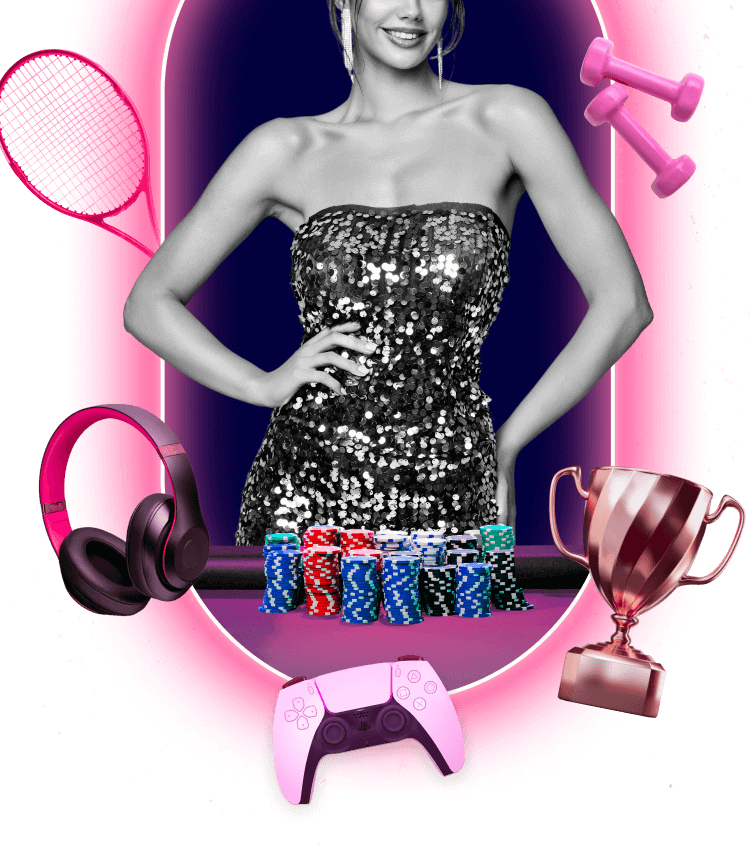
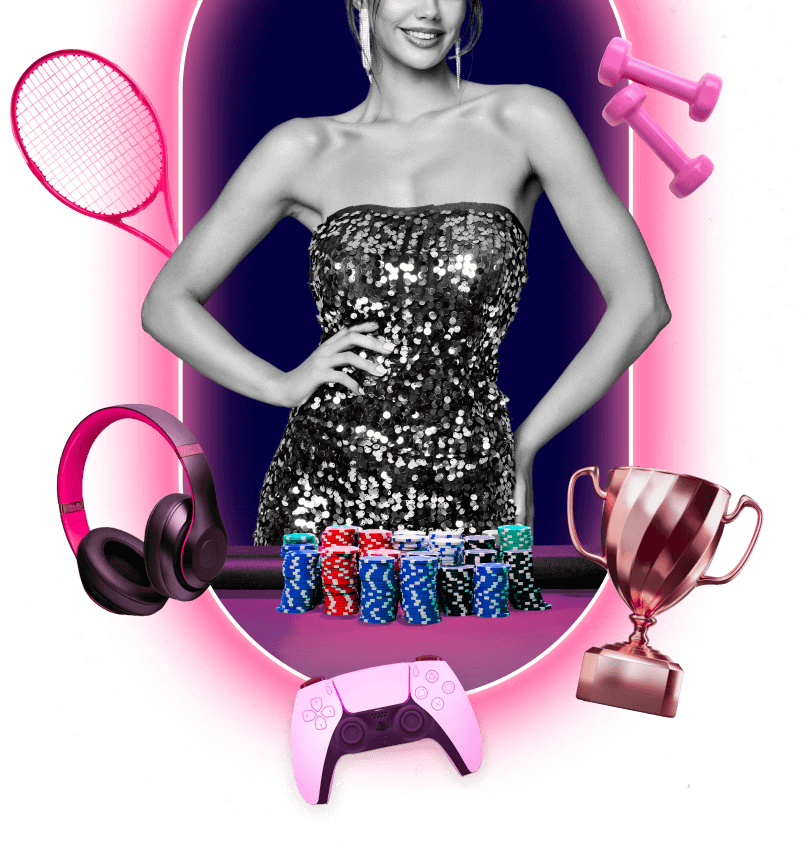
fix mob welcom image

diff --git a/build/css/main.css b/build/css/main.css
@@ -1,1 +1,1 @@
-@font-face{font-family:SuisseIntl-Medium;src:url(../fonts/SuisseIntl/SuisseIntl-Medium.woff);font-weight:500}@font-face{font-family:SuisseIntl-SemiBold;src:url(../fonts/SuisseIntl/SuisseIntl-SemiBold.woff);font-weight:600}@font-face{font-family:SuisseIntl-Bold;src:url(../fonts/SuisseIntl/SuisseIntl-Bold.woff);font-weight:700}@font-face{font-family:WulkanDisplay;src:url(../fonts/WulkanDisplay/WulkanDisplay-SemiBoldItalic.woff)}html{height:100%}body{margin:0;height:100%}a{text-decoration:none}ul{list-style:none}h1,h2,h3,li,p,ul{padding:0;margin:0}*{-webkit-box-sizing:border-box;box-sizing:border-box}.overflow{overflow-x:hidden!important}body{background:#00003d}body img{max-width:100%;height:auto}.fav__page{background:#00003d;-webkit-tap-highlight-color:transparent}.fav__page.overflow{overflow:hidden}.welcome{overflow:hidden;background:#00003d url(../img/bg-welcom-desc.jpg) no-repeat center/100% 100%}@media screen and (max-width:1024px){.welcome{background:#00003d url(../img/bg-welcom-tab.jpg) no-repeat center/100% 100%}}@media screen and (max-width:550px){.welcome{background:#00003d url(../img/bg-welcom-mob.jpg) no-repeat center/100% 100%}}.welcome__cloud{display:block;pointer-events:none;content:"";overflow-x:hidden;position:absolute;width:1000%;left:-900%;background:url(../img/cloud-top.png) repeat-x top/contain;top:0;height:60px;-webkit-animation:500s infinite ease animCloud;animation:500s infinite ease animCloud}@media screen and (max-width:700px){.welcome__cloud{-webkit-animation:none;animation:none}}.welcome__container{max-width:1305px;margin:0 auto;padding:0}.welcome__row{display:-webkit-box;display:-ms-flexbox;display:flex;-webkit-box-align:start;-ms-flex-align:start;align-items:flex-start;-webkit-box-pack:justify;-ms-flex-pack:justify;justify-content:space-between}.welcome__info{padding:45px 0 0 0;margin:0 20px 0 0;position:relative;left:40px}.welcome__title{font-family:SuisseIntl-SemiBold,sans-serif;max-width:390px;text-transform:uppercase;margin:0 0 30px 0;color:#ededed;font-size:84px;line-height:94px}.welcome__title span{font-family:WulkanDisplay,sans-serif;color:#ff267e}.welcome__subtitle{min-width:396px;font-family:SuisseIntl-SemiBold,sans-serif;color:#ff267e;font-size:40px;line-height:45px;margin:0 0 10px 0;letter-spacing:.02em;text-transform:uppercase}.welcome__text{font-family:SuisseIntl-Medium,sans-serif;color:#e8e8e8;max-width:415px;font-size:14px;line-height:28px;letter-spacing:.01em;margin:0 0 30px 0}.welcome__link{display:inline-block;font-family:SuisseIntl-Medium,sans-serif;color:#00003d;font-size:20px;line-height:24px;padding:19px 95px 17px;border-radius:4px;text-transform:uppercase;background:#05c489;-webkit-transition:background-color .3s ease;-o-transition:background-color .3s ease;transition:background-color .3s ease}.welcome__link:hover{background:#05b37c}.welcome__image{max-width:880px;position:relative;right:-140px}.prize{padding:10px 0 60px;background:#00003d;position:relative;z-index:3;margin-top:-40px}.prize__container{max-width:1305px;margin:0 auto;padding:0}.prize__title{position:relative;left:40px;font-family:WulkanDisplay,sans-serif;color:#ff267e;font-size:60px;line-height:77px;letter-spacing:.02em;text-transform:uppercase;margin:0 0 10px 0}.prize__list{max-width:1160px;padding:0 15px;display:-webkit-box;display:-ms-flexbox;display:flex;position:relative;-webkit-box-pack:justify;-ms-flex-pack:justify;justify-content:space-between;margin:0 auto 55px auto}.prize__item{position:relative}.prize__item::before{content:"";position:absolute;top:0;left:50%;-webkit-transform:translateX(-50%);-ms-transform:translateX(-50%);transform:translateX(-50%);width:520px;height:220px;z-index:0;background:url(../img/prize-back.png) no-repeat 0 0/contain}.prize__item:nth-child(1) .prize__item-wrap::after{content:"";position:absolute;z-index:4;width:129px;height:93px;background:url(../img/prize1.png) no-repeat 0 0/contain;top:60px;right:-10px}.prize__item:nth-child(2) .prize__item-wrap::after{content:"";position:absolute;z-index:4;width:170px;height:125px;background:url(../img/prize2.png) no-repeat 0 0/contain;bottom:-40px;right:-20px}.prize__item:nth-child(3) .prize__item-wrap::after{content:"";position:absolute;z-index:4;width:153px;height:135px;background:url(../img/prize3.png) no-repeat 0 0/contain;top:30px;right:-10px}.prize__item-wrap{position:relative;z-index:3;display:-webkit-box;display:-ms-flexbox;display:flex;-webkit-box-align:center;-ms-flex-align:center;align-items:center;-webkit-box-pack:center;-ms-flex-pack:center;justify-content:center;min-width:268px;margin:0 0 20px 0;height:220px;background:url(../img/prize-bg.png) no-repeat 0 0/contain}.prize__item-number{margin-top:80px;margin-left:-30px;font-family:WulkanDisplay,sans-serif;font-style:normal;font-size:80px;line-height:93px;color:#ededed}.prize__item-text{font-family:SuisseIntl-SemiBold,sans-serif;font-size:20px;line-height:26px;color:#e8e8e8;letter-spacing:.04em;text-transform:uppercase;max-width:300px;text-align:center;margin:0 auto}.prize__drop{max-width:900px;width:calc(100% - 80px);margin:0 auto 0;border:none;cursor:pointer;outline:0!important;background:#33084a;position:relative;border-radius:4px;text-align:left}.prize__drop:after,.prize__drop:before{content:"";background:#ff267e;width:4px;height:18px;display:block;position:absolute;top:32px}.prize__drop[open]:before{-webkit-transform:rotate(-45deg);-ms-transform:rotate(-45deg);transform:rotate(-45deg)}.prize__drop[open]:after{-webkit-transform:rotate(45deg);-ms-transform:rotate(45deg);transform:rotate(45deg)}.prize__drop:before{right:33px;-webkit-transform:rotate(45deg);-ms-transform:rotate(45deg);transform:rotate(45deg)}.prize__drop:after{-webkit-transform:rotate(-45deg);-ms-transform:rotate(-45deg);transform:rotate(-45deg);right:43px}.prize__drop-title{font-family:SuisseIntl-Medium,sans-serif;font-size:24px;line-height:24px;color:#ededed;text-transform:uppercase;letter-spacing:.02em;padding:27px 26px 25px;position:relative}.prize__drop summary::-webkit-details-marker{display:none}.prize__drop>summary{list-style:none}.prize__drop-txt{font-family:SuisseIntl-Medium,sans-serif;font-size:14px;line-height:28px;color:#ededed;letter-spacing:.02em;padding:30px;background:#33084a;border-top:1px solid #ff267e}.prize__drop-txt span{display:block;padding-left:15px}.prize__drop-txt .retreat1{padding-left:30px}.tableResults__drop{max-width:900px;width:calc(100% - 80px);margin:0 auto 0;background:#33084a;cursor:pointer;outline:0!important;position:relative;border-radius:4px;text-align:left}.tableResults__drop:after,.tableResults__drop:before{content:"";background:#ff267e;width:4px;height:18px;display:block;position:absolute;top:32px}.tableResults__drop[open]:before{-webkit-transform:rotate(-45deg);-ms-transform:rotate(-45deg);transform:rotate(-45deg)}.tableResults__drop[open]:after{-webkit-transform:rotate(45deg);-ms-transform:rotate(45deg);transform:rotate(45deg)}.tableResults__drop:before{right:33px;-webkit-transform:rotate(45deg);-ms-transform:rotate(45deg);transform:rotate(45deg)}.tableResults__drop:after{-webkit-transform:rotate(-45deg);-ms-transform:rotate(-45deg);transform:rotate(-45deg);right:43px}.tableResults__drop-title{font-family:SuisseIntl-Medium,sans-serif;font-size:24px;line-height:24px;color:#ededed;text-transform:uppercase;letter-spacing:.02em;padding:27px 26px 25px;position:relative}.tableResults__drop summary::-webkit-details-marker{display:none}.tableResults__drop>summary{list-style:none}.tableResults__drop-txt{font-family:SuisseIntl-Medium,sans-serif;font-size:14px;line-height:28px;color:#ededed;letter-spacing:.02em;padding:30px;background:#33084a;border-top:1px solid #ff267e}.tableResults__drop-txt p{font-family:SuisseIntl-Medium,sans-serif;font-size:14px;line-height:28px}.tableResults__drop-txt span{display:block;padding-left:15px}.tableResults__drop-txt .retreat1{padding-left:30px}.tableResults{background:#00003d;text-align:center;position:relative;z-index:3}.tableResults::before{pointer-events:none;content:"";position:absolute;width:100vw;min-height:180%;left:0;z-index:0;top:-42%;background:url(../img/bg-table-desc.svg) no-repeat center/cover}@media screen and (max-width:1024px){.tableResults::before{background:url(../img/bg-table-table.svg) no-repeat center/cover;top:-4%;min-height:40%}}.tableResults__container{max-width:1305px;margin:0 auto;padding:0}.tableResults__title{position:relative;z-index:3;font-family:SuisseIntl-Bold,sans-serif;font-size:50px;line-height:50px;color:#ededed;text-transform:uppercase;text-align:center;letter-spacing:.01em;margin:0 0 30px 0}.tableResults__wrap{margin:0 auto 40px auto;max-width:1004px;padding:0 15px;text-align:left;position:relative}.tableResults__head{background:#00003d;border:2px solid #ff267e;-webkit-box-shadow:0 0 30px #ff267e,inset 0 0 30px #ff267e;box-shadow:0 0 30px #ff267e,inset 0 0 30px #ff267e;border-radius:4px;margin-right:10px;margin-bottom:25px;position:relative}.tableResults__head-list{display:-webkit-box;display:-ms-flexbox;display:flex}.tableResults__head-col{font-family:SuisseIntl-SemiBold,sans-serif;font-size:20px;line-height:20px;color:#ededed;text-transform:uppercase;letter-spacing:.04em;padding:20px 20px 17px 35px}.tableResults__head-col:nth-child(1){width:19%;padding:20px 20px 17px 24px}.tableResults__head-col:nth-child(2){width:25%;padding:20px 20px 17px 24px}.tableResults__head-col:nth-child(3){width:21%}.tableResults__head-col:nth-child(4){width:47%}.tableResults__body{overflow-y:scroll;padding-right:6px;position:relative;max-height:495px;font-size:18px;background:0 0}.tableResults__body::-webkit-scrollbar{width:4px;height:80%;background:rgba(51,8,60,.5)}.tableResults__body::-webkit-scrollbar-thumb{background-color:#ff267e;width:4px}.tableResults__body-col{font-family:SuisseIntl-SemiBold,sans-serif;width:25%;margin-right:8px;letter-spacing:.04em;display:-webkit-box;display:-ms-flexbox;display:flex;-webkit-box-align:center;-ms-flex-align:center;align-items:center;padding:22px 20px 18px 24px;background:#33084a;color:#ededed;text-align:start}.tableResults__body-col span{font-family:SuisseIntl-SemiBold,sans-serif}.tableResults__body-col:nth-child(1){width:19%;padding:22px 20px 18px 24px}.tableResults__body-col:nth-child(2){width:25%}.tableResults__body-col:nth-child(3){width:20%}.tableResults__body-col:nth-child(4){width:46%;margin-right:0}.tableResults__row{word-break:break-all;display:-webkit-box;display:-ms-flexbox;display:flex;margin-bottom:8px}.tableResults__row:last-child{margin-bottom:0}.tableResults .place1 .tableResults__body-col:nth-child(1):after,.tableResults .place2 .tableResults__body-col:nth-child(1):after,.tableResults .place3 .tableResults__body-col:nth-child(1):after{content:"";width:31px;height:24px;display:inline-block;margin:-4px 0 0 14px}.tableResults .place1 .tableResults__body-col:nth-child(1):after{background:url(../img/place-icon-1.svg) no-repeat 0 0/contain}.tableResults .place2 .tableResults__body-col:nth-child(1):after{background:url(../img/place-icon-2.svg) no-repeat 0 0/contain}.tableResults .place3 .tableResults__body-col:nth-child(1):after{background:url(../img/place-icon-3.svg) no-repeat 0 0/contain}.tableResults__drop{display:inline-block;vertical-align:middle}.footer{padding:123px 0 90px;background:url(../img/bg-footer.jpg) no-repeat 50% 0/cover;position:relative}.footer::after{content:"";position:absolute;z-index:0;width:530px;height:450px;left:-15px;bottom:0;background:url(../img/left-footer.png) no-repeat center/contain}.footer::before{content:"";position:absolute;z-index:0;width:530px;height:450px;right:-15px;bottom:0;background:url(../img/right-footer.png) no-repeat center/contain}.footer__cloud{position:absolute;width:1000%;height:90px;bottom:0;left:-900%;background:url(../img/cloud-desc.png) repeat-x bottom/contain;-webkit-animation:500s infinite ease animCloud;animation:500s infinite ease animCloud}@media screen and (max-width:1024px){.footer__cloud{background:url(../img/cloud-tab.png) repeat-x bottom/contain}}@media screen and (max-width:550px){.footer__cloud{background:0 0;display:none}}.footer__container{max-width:660px;padding:0 15px;margin:0 auto}.footer__row{position:relative;z-index:3;display:-webkit-box;display:-ms-flexbox;display:flex;-webkit-box-orient:vertical;-webkit-box-direction:normal;-ms-flex-direction:column;flex-direction:column;-webkit-box-align:center;-ms-flex-align:center;align-items:center}.footer__title{font-family:SuisseIntl-SemiBold,sans-serif;text-align:center;color:#ededed;font-size:60px;line-height:77px;text-transform:uppercase;margin:0 0 15px 0}.footer__title span{font-family:WulkanDisplay,sans-serif;color:#ff267e}.footer__text{font-family:SuisseIntl-Medium,sans-serif;text-align:center;font-size:14px;line-height:28px;color:#e8e8e8;margin:0 0 30px 0}.footer__link{display:inline-block;font-family:SuisseIntl-Medium,sans-serif;color:#00003d;font-size:20px;line-height:24px;padding:19px 95px 17px;border-radius:4px;text-transform:uppercase;background:#05c489;-webkit-transition:background-color .3s ease;-o-transition:background-color .3s ease;transition:background-color .3s ease}.footer__link:hover{background:#05b37c}@-webkit-keyframes animCloud{0%{background-position:0 0}100%{background-position:100% 0}}@keyframes animCloud{0%{background-position:0 0}100%{background-position:100% 0}}@media screen and (max-width:1260px){.welcome__image{right:-40px;min-width:76%}}@media screen and (max-width:1024px){.welcome__title{font-size:60px;line-height:70px;margin:0 0 25px 0;-webkit-box-ordinal-group:2;-ms-flex-order:1;order:1}.welcome__link{-webkit-box-ordinal-group:3;-ms-flex-order:2;order:2;margin:0 0 30px 0;-ms-flex-item-align:start;align-self:flex-start}.welcome__subtitle{min-width:300px;-webkit-box-ordinal-group:4;-ms-flex-order:3;order:3;font-size:30px;line-height:30px;margin:0 0 8px 0}.welcome__text{-webkit-box-ordinal-group:5;-ms-flex-order:4;order:4;margin:0}.welcome__image{min-width:62%;right:20px}.welcome__info{min-width:357px;display:-webkit-box;display:-ms-flexbox;display:flex;-webkit-box-orient:vertical;-webkit-box-direction:normal;-ms-flex-direction:column;flex-direction:column}}@media screen and (max-width:890px){.welcome__image{min-width:62%;right:50px}}@media screen and (max-width:790px){.welcome__info{left:20px}.welcome__image{min-width:62%;right:90px}}@media screen and (max-width:750px){.welcome__info{min-width:267px}.welcome__image{right:0}}@media screen and (max-width:700px){.welcome__row{-webkit-box-orient:vertical;-webkit-box-direction:reverse;-ms-flex-direction:column-reverse;flex-direction:column-reverse}.welcome__image{min-width:auto;right:23px}.welcome__info{margin-top:-80px;z-index:3;left:0;min-width:auto;width:100%;max-width:100%}.welcome__title{padding:0 15px;max-width:515px;text-align:center;margin:0 auto 30px auto}.welcome__subtitle{text-align:center;font-size:32px;padding:0 15px;line-height:40px;margin:0 auto 10px auto}.welcome__link{font-size:20px;line-height:24px;margin:0 auto 25px auto;width:70%;padding:19px 15px 17px;text-align:center}.welcome__text{padding:0 15px;max-width:515px;text-align:center;margin:0 auto 0 auto}}@media screen and (max-width:550px){.welcome::before{content:"";position:absolute;width:100%;height:1100px;background:url(../img/blur-mob.png) no-repeat center/100% 100%;z-index:10}.welcome__image{right:0;position:relative;z-index:12}.welcome__info{margin-top:-74px;position:relative;z-index:12}.welcome__title{max-width:430px;font-size:42px;line-height:50px;margin:0 auto 7px auto}}@media screen and (max-width:430px){.welcome__link{width:calc(100% - 30px)}}@media screen and (max-width:1180px){.prize{margin-top:0}.prize__list{left:0;display:grid;grid-template-columns:auto auto;justify-items:center;-webkit-box-pack:center;-ms-flex-pack:center;justify-content:center;-webkit-box-align:center;-ms-flex-align:center;align-items:center;-webkit-column-gap:120px;-moz-column-gap:120px;column-gap:120px;row-gap:60px}.prize__item{display:-webkit-box;display:-ms-flexbox;display:flex;-webkit-box-orient:vertical;-webkit-box-direction:normal;-ms-flex-direction:column;flex-direction:column;-webkit-box-pack:center;-ms-flex-pack:center;justify-content:center;-webkit-box-align:center;-ms-flex-align:center;align-items:center}.prize__item-number{margin-left:0}.prize__item:nth-child(1){grid-column:1/2;grid-row:1/2}.prize__item:nth-child(1) .prize__item-wrap::after{right:-40px}.prize__item:nth-child(2){grid-column:2/3;grid-row:1/2}.prize__item:nth-child(2) .prize__item-wrap::after{right:-50px}.prize__item:nth-child(3){grid-column:1/3;grid-row:2/3}.prize__item:nth-child(3) .prize__item-wrap::after{right:-40px}}@media screen and (max-width:1024px){.prize__title{font-size:40px;line-height:60px;margin:0 0 5px 0}}@media screen and (max-width:830px){.prize{padding:40px 0 60px}}@media screen and (max-width:790px){.prize__title{left:20px}}@media screen and (max-width:700px){.prize{padding:35px 0 60px}.prize__drop{width:calc(100% - 30px)}.prize__drop:after,.prize__drop:before{width:2px;height:12px;top:23px}.prize__drop:before{right:18px}.prize__drop:after{right:26px}.prize__drop-title{font-size:18px;line-height:18px;padding:20px 20px 18px}.prize__drop-title:after{right:45px}.prize__drop-txt{padding:20px}.prize__title{left:0;padding:0 15px;text-align:center;margin:0}.prize__list{-webkit-column-gap:0;-moz-column-gap:0;column-gap:0;row-gap:10px;grid-template-columns:100%}.prize__item:nth-child(1){grid-column:1/2;grid-row:1/2}.prize__item:nth-child(2){grid-column:1/2;grid-row:2/3}.prize__item:nth-child(3){grid-column:1/2;grid-row:3/4}}@media screen and (max-width:940px){.tableResults__title{font-size:36px;line-height:36px}.tableResults__head{-webkit-box-shadow:0 0 20px #ff267e,inset 0 0 20px #ff267e;box-shadow:0 0 20px #ff267e,inset 0 0 20px #ff267e;margin-bottom:10px}.tableResults__head-col{font-size:16px;line-height:16px;padding:14px 20px 12px 35px}.tableResults__head-col:nth-child(1){padding:14px 20px 12px 18px}.tableResults__head-col:nth-child(2){padding:14px 20px 12px 26px}.tableResults__body{font-size:16px;max-height:444px}.tableResults .place1 .tableResults__body-col:nth-child(1):after,.tableResults .place2 .tableResults__body-col:nth-child(1):after,.tableResults .place3 .tableResults__body-col:nth-child(1):after{width:26px;height:20px;margin:-3px 0 0 10px}}@media screen and (max-width:700px){.tableResults__drop{width:calc(100% - 30px)}.tableResults__drop:after,.tableResults__drop:before{width:2px;height:12px;top:23px}.tableResults__drop:before{right:18px}.tableResults__drop:after{right:26px}.tableResults__drop-title{font-size:18px;line-height:18px;padding:20px 20px 18px}.tableResults__drop-title:after{right:45px}.tableResults__drop-txt{padding:20px}.tableResults__head{margin-right:0;margin-bottom:5px;-webkit-box-shadow:0 0 10px #ff267e,inset 0 0 10px #ff267e;box-shadow:0 0 10px #ff267e,inset 0 0 10px #ff267e}.tableResults__head-col{font-size:12px;line-height:12px}.tableResults__head-col:nth-child(1){padding:11px 20px 9px 15px;width:20%}.tableResults__head-col:nth-child(2){padding:11px 20px 9px 10px;width:28%}.tableResults__head-col:nth-child(3){padding:11px 20px 9px 7px;width:22%}.tableResults__head-col:nth-child(4){padding:11px 20px 9px 10px;width:30%}.tableResults__body{font-size:11px;padding-right:0}.tableResults__body::-webkit-scrollbar{background:#33083c}.tableResults__body-col{font-family:SuisseIntl-Bold,sans-serif;margin-right:2px;padding:12px 5px 8px 10px}.tableResults__body-col:nth-child(1){width:20%;padding:12px 5px 8px 20px}.tableResults__body-col:nth-child(2){width:28%;padding:12px 5px 8px 10px}.tableResults__body-col:nth-child(3){width:22%}.tableResults__body-col:nth-child(4){width:30%}.tableResults__row{margin-bottom:2px}.tableResults .place1 .tableResults__body-col:nth-child(1):after,.tableResults .place2 .tableResults__body-col:nth-child(1):after,.tableResults .place3 .tableResults__body-col:nth-child(1):after{width:18px;height:14px;margin:-4px 0 0 6px}}@media screen and (max-width:374px){.tableResults__drop:after,.tableResults__drop:before{top:21px}.tableResults__drop-title{font-size:16px;line-height:16px;padding:18px 15px 16px}.tableResults__title{font-size:30px;line-height:30px}.tableResults__wrap{margin-top:20px}}@media screen and (max-width:1230px){.footer{padding:410px 0 70px;background:url(../img/bg-footer-tab.jpg) no-repeat center/100% 100%}.footer::after,.footer::before{content:none;background:0 0}.footer::before{content:"";left:50%;right:auto;bottom:auto;width:715px;height:372px;top:20px;z-index:1;-webkit-transform:translateX(-50%);-ms-transform:translateX(-50%);transform:translateX(-50%);background:url(../img/footer-center.png) no-repeat center/contain}.footer::after{content:"";left:50%;right:auto;bottom:auto;width:100%;height:100%;top:-170px;z-index:0;-webkit-transform:translateX(-50%);-ms-transform:translateX(-50%);transform:translateX(-50%);background:url(../img/touch-footer.svg) no-repeat center/contain}}@media screen and (max-width:1024px){.footer__title{font-size:50px;line-height:60px;margin:0 0 10px 0}}@media screen and (max-width:720px){.footer{padding:360px 0 70px}.footer::before{width:100%;top:-10px}}@media screen and (max-width:550px){.footer{padding:307px 0 30px;background:url(../img/bg-footer-mob.jpg) no-repeat center/100% 100%}.footer::before{width:100%;top:-30px}.footer::after{content:"";left:50%;right:auto;bottom:auto;width:100%;height:320px;top:10px;z-index:0;-webkit-transform:translateX(-50%);-ms-transform:translateX(-50%);transform:translateX(-50%);background:url(../img/touch-mob.png) no-repeat center/contain}.footer__title{font-size:42px;line-height:50px;-webkit-box-ordinal-group:2;-ms-flex-order:1;order:1}.footer__link{-webkit-box-ordinal-group:3;-ms-flex-order:2;order:2;width:100%;padding:19px 15px 17px;text-align:center;margin:0 0 25px 0}.footer__text{-webkit-box-ordinal-group:4;-ms-flex-order:3;order:3;margin:0}}@media screen and (max-width:466px){.footer{padding:253px 0 30px}.footer::before{top:-60px}.footer::after{top:-20px}}@media screen and (max-width:406px){.footer{padding:215px 0 30px}.footer::before{top:-80px}.footer::after{top:-40px}}@media screen and (max-width:365px){.footer{padding:193px 0 30px}.footer::before{top:-90px}.footer::after{top:-50px}}
+@font-face{font-family:SuisseIntl-Medium;src:url(../fonts/SuisseIntl/SuisseIntl-Medium.woff);font-weight:500}@font-face{font-family:SuisseIntl-SemiBold;src:url(../fonts/SuisseIntl/SuisseIntl-SemiBold.woff);font-weight:600}@font-face{font-family:SuisseIntl-Bold;src:url(../fonts/SuisseIntl/SuisseIntl-Bold.woff);font-weight:700}@font-face{font-family:WulkanDisplay;src:url(../fonts/WulkanDisplay/WulkanDisplay-SemiBoldItalic.woff)}html{height:100%}body{margin:0;height:100%}a{text-decoration:none}ul{list-style:none}h1,h2,h3,li,p,ul{padding:0;margin:0}*{-webkit-box-sizing:border-box;box-sizing:border-box}.overflow{overflow-x:hidden!important}body{background:#00003d}body img{max-width:100%;height:auto}.fav__page{background:#00003d;-webkit-tap-highlight-color:transparent}.fav__page.overflow{overflow:hidden}.welcome{overflow:hidden;background:#00003d url(../img/bg-welcom-desc.jpg) no-repeat center/100% 100%}@media screen and (max-width:1024px){.welcome{background:#00003d url(../img/bg-welcom-tab.jpg) no-repeat center/100% 100%}}@media screen and (max-width:550px){.welcome{background:#00003d url(../img/bg-welcom-mob.jpg) no-repeat center/100% 100%}}.welcome__cloud{display:block;pointer-events:none;content:"";overflow-x:hidden;position:absolute;width:1000%;left:-900%;background:url(../img/cloud-top.png) repeat-x top/contain;top:0;height:60px;-webkit-animation:500s infinite ease animCloud;animation:500s infinite ease animCloud}@media screen and (max-width:700px){.welcome__cloud{-webkit-animation:none;animation:none}}.welcome__container{max-width:1305px;margin:0 auto;padding:0}.welcome__row{display:-webkit-box;display:-ms-flexbox;display:flex;-webkit-box-align:start;-ms-flex-align:start;align-items:flex-start;-webkit-box-pack:justify;-ms-flex-pack:justify;justify-content:space-between}.welcome__info{padding:45px 0 0 0;margin:0 20px 0 0;position:relative;left:40px}.welcome__title{font-family:SuisseIntl-SemiBold,sans-serif;max-width:390px;text-transform:uppercase;margin:0 0 30px 0;color:#ededed;font-size:84px;line-height:94px}.welcome__title span{font-family:WulkanDisplay,sans-serif;color:#ff267e}.welcome__subtitle{min-width:396px;font-family:SuisseIntl-SemiBold,sans-serif;color:#ff267e;font-size:40px;line-height:45px;margin:0 0 10px 0;letter-spacing:.02em;text-transform:uppercase}.welcome__text{font-family:SuisseIntl-Medium,sans-serif;color:#e8e8e8;max-width:415px;font-size:14px;line-height:28px;letter-spacing:.01em;margin:0 0 30px 0}.welcome__link{display:inline-block;font-family:SuisseIntl-Medium,sans-serif;color:#00003d;font-size:20px;line-height:24px;padding:19px 95px 17px;border-radius:4px;text-transform:uppercase;background:#05c489;-webkit-transition:background-color .3s ease;-o-transition:background-color .3s ease;transition:background-color .3s ease}.welcome__link:hover{background:#05b37c}.welcome__image{max-width:880px;position:relative;right:-140px}.prize{padding:10px 0 60px;background:#00003d;position:relative;z-index:3;margin-top:-40px}.prize__container{max-width:1305px;margin:0 auto;padding:0}.prize__title{position:relative;left:40px;font-family:WulkanDisplay,sans-serif;color:#ff267e;font-size:60px;line-height:77px;letter-spacing:.02em;text-transform:uppercase;margin:0 0 10px 0}.prize__list{max-width:1160px;padding:0 15px;display:-webkit-box;display:-ms-flexbox;display:flex;position:relative;-webkit-box-pack:justify;-ms-flex-pack:justify;justify-content:space-between;margin:0 auto 55px auto}.prize__item{position:relative}.prize__item::before{content:"";position:absolute;top:0;left:50%;-webkit-transform:translateX(-50%);-ms-transform:translateX(-50%);transform:translateX(-50%);width:520px;height:220px;z-index:0;background:url(../img/prize-back.png) no-repeat 0 0/contain}.prize__item:nth-child(1) .prize__item-wrap::after{content:"";position:absolute;z-index:4;width:129px;height:93px;background:url(../img/prize1.png) no-repeat 0 0/contain;top:60px;right:-10px}.prize__item:nth-child(2) .prize__item-wrap::after{content:"";position:absolute;z-index:4;width:170px;height:125px;background:url(../img/prize2.png) no-repeat 0 0/contain;bottom:-40px;right:-20px}.prize__item:nth-child(3) .prize__item-wrap::after{content:"";position:absolute;z-index:4;width:153px;height:135px;background:url(../img/prize3.png) no-repeat 0 0/contain;top:30px;right:-10px}.prize__item-wrap{position:relative;z-index:3;display:-webkit-box;display:-ms-flexbox;display:flex;-webkit-box-align:center;-ms-flex-align:center;align-items:center;-webkit-box-pack:center;-ms-flex-pack:center;justify-content:center;min-width:268px;margin:0 0 20px 0;height:220px;background:url(../img/prize-bg.png) no-repeat 0 0/contain}.prize__item-number{margin-top:80px;margin-left:-30px;font-family:WulkanDisplay,sans-serif;font-style:normal;font-size:80px;line-height:93px;color:#ededed}.prize__item-text{font-family:SuisseIntl-SemiBold,sans-serif;font-size:20px;line-height:26px;color:#e8e8e8;letter-spacing:.04em;text-transform:uppercase;max-width:300px;text-align:center;margin:0 auto}.prize__drop{max-width:900px;width:calc(100% - 80px);margin:0 auto 0;border:none;cursor:pointer;outline:0!important;background:#33084a;position:relative;border-radius:4px;text-align:left}.prize__drop:after,.prize__drop:before{content:"";background:#ff267e;width:4px;height:18px;display:block;position:absolute;top:32px}.prize__drop[open]:before{-webkit-transform:rotate(-45deg);-ms-transform:rotate(-45deg);transform:rotate(-45deg)}.prize__drop[open]:after{-webkit-transform:rotate(45deg);-ms-transform:rotate(45deg);transform:rotate(45deg)}.prize__drop:before{right:33px;-webkit-transform:rotate(45deg);-ms-transform:rotate(45deg);transform:rotate(45deg)}.prize__drop:after{-webkit-transform:rotate(-45deg);-ms-transform:rotate(-45deg);transform:rotate(-45deg);right:43px}.prize__drop-title{font-family:SuisseIntl-Medium,sans-serif;font-size:24px;line-height:24px;color:#ededed;text-transform:uppercase;letter-spacing:.02em;padding:27px 26px 25px;position:relative}.prize__drop summary::-webkit-details-marker{display:none}.prize__drop>summary{list-style:none}.prize__drop-txt{font-family:SuisseIntl-Medium,sans-serif;font-size:14px;line-height:28px;color:#ededed;letter-spacing:.02em;padding:30px;background:#33084a;border-top:1px solid #ff267e}.prize__drop-txt span{display:block;padding-left:15px}.prize__drop-txt .retreat1{padding-left:30px}.tableResults__drop{max-width:900px;width:calc(100% - 80px);margin:0 auto 0;background:#33084a;cursor:pointer;outline:0!important;position:relative;border-radius:4px;text-align:left}.tableResults__drop:after,.tableResults__drop:before{content:"";background:#ff267e;width:4px;height:18px;display:block;position:absolute;top:32px}.tableResults__drop[open]:before{-webkit-transform:rotate(-45deg);-ms-transform:rotate(-45deg);transform:rotate(-45deg)}.tableResults__drop[open]:after{-webkit-transform:rotate(45deg);-ms-transform:rotate(45deg);transform:rotate(45deg)}.tableResults__drop:before{right:33px;-webkit-transform:rotate(45deg);-ms-transform:rotate(45deg);transform:rotate(45deg)}.tableResults__drop:after{-webkit-transform:rotate(-45deg);-ms-transform:rotate(-45deg);transform:rotate(-45deg);right:43px}.tableResults__drop-title{font-family:SuisseIntl-Medium,sans-serif;font-size:24px;line-height:24px;color:#ededed;text-transform:uppercase;letter-spacing:.02em;padding:27px 26px 25px;position:relative}.tableResults__drop summary::-webkit-details-marker{display:none}.tableResults__drop>summary{list-style:none}.tableResults__drop-txt{font-family:SuisseIntl-Medium,sans-serif;font-size:14px;line-height:28px;color:#ededed;letter-spacing:.02em;padding:30px;background:#33084a;border-top:1px solid #ff267e}.tableResults__drop-txt p{font-family:SuisseIntl-Medium,sans-serif;font-size:14px;line-height:28px}.tableResults__drop-txt span{display:block;padding-left:15px}.tableResults__drop-txt .retreat1{padding-left:30px}.tableResults{background:#00003d;text-align:center;position:relative;z-index:3}.tableResults::before{pointer-events:none;content:"";position:absolute;width:100vw;min-height:180%;left:0;z-index:0;top:-42%;background:url(../img/bg-table-desc.svg) no-repeat center/cover}@media screen and (max-width:1024px){.tableResults::before{background:url(../img/bg-table-table.svg) no-repeat center/cover;top:-4%;min-height:40%}}.tableResults__container{max-width:1305px;margin:0 auto;padding:0}.tableResults__title{position:relative;z-index:3;font-family:SuisseIntl-Bold,sans-serif;font-size:50px;line-height:50px;color:#ededed;text-transform:uppercase;text-align:center;letter-spacing:.01em;margin:0 0 30px 0}.tableResults__wrap{margin:0 auto 40px auto;max-width:1004px;padding:0 15px;text-align:left;position:relative}.tableResults__head{background:#00003d;border:2px solid #ff267e;-webkit-box-shadow:0 0 30px #ff267e,inset 0 0 30px #ff267e;box-shadow:0 0 30px #ff267e,inset 0 0 30px #ff267e;border-radius:4px;margin-right:10px;margin-bottom:25px;position:relative}.tableResults__head-list{display:-webkit-box;display:-ms-flexbox;display:flex}.tableResults__head-col{font-family:SuisseIntl-SemiBold,sans-serif;font-size:20px;line-height:20px;color:#ededed;text-transform:uppercase;letter-spacing:.04em;padding:20px 20px 17px 35px}.tableResults__head-col:nth-child(1){width:19%;padding:20px 20px 17px 24px}.tableResults__head-col:nth-child(2){width:25%;padding:20px 20px 17px 24px}.tableResults__head-col:nth-child(3){width:21%}.tableResults__head-col:nth-child(4){width:47%}.tableResults__body{overflow-y:scroll;padding-right:6px;position:relative;max-height:495px;font-size:18px;background:0 0}.tableResults__body::-webkit-scrollbar{width:4px;height:80%;background:rgba(51,8,60,.5)}.tableResults__body::-webkit-scrollbar-thumb{background-color:#ff267e;width:4px}.tableResults__body-col{font-family:SuisseIntl-SemiBold,sans-serif;width:25%;margin-right:8px;letter-spacing:.04em;display:-webkit-box;display:-ms-flexbox;display:flex;-webkit-box-align:center;-ms-flex-align:center;align-items:center;padding:22px 20px 18px 24px;background:#33084a;color:#ededed;text-align:start}.tableResults__body-col span{font-family:SuisseIntl-SemiBold,sans-serif}.tableResults__body-col:nth-child(1){width:19%;padding:22px 20px 18px 24px}.tableResults__body-col:nth-child(2){width:25%}.tableResults__body-col:nth-child(3){width:20%}.tableResults__body-col:nth-child(4){width:46%;margin-right:0}.tableResults__row{word-break:break-all;display:-webkit-box;display:-ms-flexbox;display:flex;margin-bottom:8px}.tableResults__row:last-child{margin-bottom:0}.tableResults .place1 .tableResults__body-col:nth-child(1):after,.tableResults .place2 .tableResults__body-col:nth-child(1):after,.tableResults .place3 .tableResults__body-col:nth-child(1):after{content:"";width:31px;height:24px;display:inline-block;margin:-4px 0 0 14px}.tableResults .place1 .tableResults__body-col:nth-child(1):after{background:url(../img/place-icon-1.svg) no-repeat 0 0/contain}.tableResults .place2 .tableResults__body-col:nth-child(1):after{background:url(../img/place-icon-2.svg) no-repeat 0 0/contain}.tableResults .place3 .tableResults__body-col:nth-child(1):after{background:url(../img/place-icon-3.svg) no-repeat 0 0/contain}.tableResults__drop{display:inline-block;vertical-align:middle}.footer{padding:123px 0 90px;background:url(../img/bg-footer.jpg) no-repeat 50% 0/cover;position:relative}.footer::after{content:"";position:absolute;z-index:0;width:530px;height:450px;left:-15px;bottom:0;background:url(../img/left-footer.png) no-repeat center/contain}.footer::before{content:"";position:absolute;z-index:0;width:530px;height:450px;right:-15px;bottom:0;background:url(../img/right-footer.png) no-repeat center/contain}.footer__cloud{position:absolute;width:1000%;height:90px;bottom:0;left:-900%;background:url(../img/cloud-desc.png) repeat-x bottom/contain;-webkit-animation:500s infinite ease animCloud;animation:500s infinite ease animCloud}@media screen and (max-width:1024px){.footer__cloud{background:url(../img/cloud-tab.png) repeat-x bottom/contain}}@media screen and (max-width:550px){.footer__cloud{background:0 0;display:none}}.footer__container{max-width:660px;padding:0 15px;margin:0 auto}.footer__row{position:relative;z-index:3;display:-webkit-box;display:-ms-flexbox;display:flex;-webkit-box-orient:vertical;-webkit-box-direction:normal;-ms-flex-direction:column;flex-direction:column;-webkit-box-align:center;-ms-flex-align:center;align-items:center}.footer__title{font-family:SuisseIntl-SemiBold,sans-serif;text-align:center;color:#ededed;font-size:60px;line-height:77px;text-transform:uppercase;margin:0 0 15px 0}.footer__title span{font-family:WulkanDisplay,sans-serif;color:#ff267e}.footer__text{font-family:SuisseIntl-Medium,sans-serif;text-align:center;font-size:14px;line-height:28px;color:#e8e8e8;margin:0 0 30px 0}.footer__link{display:inline-block;font-family:SuisseIntl-Medium,sans-serif;color:#00003d;font-size:20px;line-height:24px;padding:19px 95px 17px;border-radius:4px;text-transform:uppercase;background:#05c489;-webkit-transition:background-color .3s ease;-o-transition:background-color .3s ease;transition:background-color .3s ease}.footer__link:hover{background:#05b37c}@-webkit-keyframes animCloud{0%{background-position:0 0}100%{background-position:100% 0}}@keyframes animCloud{0%{background-position:0 0}100%{background-position:100% 0}}@media screen and (max-width:1260px){.welcome__image{right:-40px;min-width:76%}}@media screen and (max-width:1024px){.welcome__title{font-size:60px;line-height:70px;margin:0 0 25px 0;-webkit-box-ordinal-group:2;-ms-flex-order:1;order:1}.welcome__link{-webkit-box-ordinal-group:3;-ms-flex-order:2;order:2;margin:0 0 30px 0;-ms-flex-item-align:start;align-self:flex-start}.welcome__subtitle{min-width:300px;-webkit-box-ordinal-group:4;-ms-flex-order:3;order:3;font-size:30px;line-height:30px;margin:0 0 8px 0}.welcome__text{-webkit-box-ordinal-group:5;-ms-flex-order:4;order:4;margin:0}.welcome__image{min-width:62%;right:20px}.welcome__info{min-width:357px;display:-webkit-box;display:-ms-flexbox;display:flex;-webkit-box-orient:vertical;-webkit-box-direction:normal;-ms-flex-direction:column;flex-direction:column}}@media screen and (max-width:890px){.welcome__image{min-width:62%;right:50px}}@media screen and (max-width:790px){.welcome__info{left:20px}.welcome__image{min-width:62%;right:90px}}@media screen and (max-width:750px){.welcome__info{min-width:267px}.welcome__image{right:0}}@media screen and (max-width:700px){.welcome__row{-webkit-box-orient:vertical;-webkit-box-direction:reverse;-ms-flex-direction:column-reverse;flex-direction:column-reverse}.welcome__image{min-width:auto;right:23px}.welcome__info{margin-top:-80px;z-index:3;left:0;min-width:auto;width:100%;max-width:100%}.welcome__title{padding:0 15px;max-width:515px;text-align:center;margin:0 auto 30px auto}.welcome__subtitle{text-align:center;font-size:32px;padding:0 15px;line-height:40px;margin:0 auto 10px auto}.welcome__link{font-size:20px;line-height:24px;margin:0 auto 25px auto;width:70%;padding:19px 15px 17px;text-align:center}.welcome__text{padding:0 15px;max-width:515px;text-align:center;margin:0 auto 0 auto}}@media screen and (max-width:550px){.welcome::before{content:"";position:absolute;width:100%;height:1100px;background:url(../img/blur-mob.png) no-repeat center/100% 100%;z-index:10}.welcome__image{right:0;position:relative;z-index:12}.welcome__info{margin-top:-74px;position:relative;z-index:12}.welcome__title{max-width:430px;font-size:42px;line-height:50px;margin:0 auto 7px auto}}@media screen and (max-width:430px){.welcome__link{width:calc(100% - 30px)}}@media screen and (max-width:380px) and (max-height:575px){.welcome__image{max-width:98%;margin:0 auto}}@media screen and (max-width:1180px){.prize{margin-top:0}.prize__list{left:0;display:grid;grid-template-columns:auto auto;justify-items:center;-webkit-box-pack:center;-ms-flex-pack:center;justify-content:center;-webkit-box-align:center;-ms-flex-align:center;align-items:center;-webkit-column-gap:120px;-moz-column-gap:120px;column-gap:120px;row-gap:60px}.prize__item{display:-webkit-box;display:-ms-flexbox;display:flex;-webkit-box-orient:vertical;-webkit-box-direction:normal;-ms-flex-direction:column;flex-direction:column;-webkit-box-pack:center;-ms-flex-pack:center;justify-content:center;-webkit-box-align:center;-ms-flex-align:center;align-items:center}.prize__item-number{margin-left:0}.prize__item:nth-child(1){grid-column:1/2;grid-row:1/2}.prize__item:nth-child(1) .prize__item-wrap::after{right:-40px}.prize__item:nth-child(2){grid-column:2/3;grid-row:1/2}.prize__item:nth-child(2) .prize__item-wrap::after{right:-50px}.prize__item:nth-child(3){grid-column:1/3;grid-row:2/3}.prize__item:nth-child(3) .prize__item-wrap::after{right:-40px}}@media screen and (max-width:1024px){.prize__title{font-size:40px;line-height:60px;margin:0 0 5px 0}}@media screen and (max-width:830px){.prize{padding:40px 0 60px}}@media screen and (max-width:790px){.prize__title{left:20px}}@media screen and (max-width:700px){.prize{padding:35px 0 60px}.prize__drop{width:calc(100% - 30px)}.prize__drop:after,.prize__drop:before{width:2px;height:12px;top:23px}.prize__drop:before{right:18px}.prize__drop:after{right:26px}.prize__drop-title{font-size:18px;line-height:18px;padding:20px 20px 18px}.prize__drop-title:after{right:45px}.prize__drop-txt{padding:20px}.prize__title{left:0;padding:0 15px;text-align:center;margin:0}.prize__list{-webkit-column-gap:0;-moz-column-gap:0;column-gap:0;row-gap:10px;grid-template-columns:100%}.prize__item:nth-child(1){grid-column:1/2;grid-row:1/2}.prize__item:nth-child(2){grid-column:1/2;grid-row:2/3}.prize__item:nth-child(3){grid-column:1/2;grid-row:3/4}}@media screen and (max-width:940px){.tableResults__title{font-size:36px;line-height:36px}.tableResults__head{-webkit-box-shadow:0 0 20px #ff267e,inset 0 0 20px #ff267e;box-shadow:0 0 20px #ff267e,inset 0 0 20px #ff267e;margin-bottom:10px}.tableResults__head-col{font-size:16px;line-height:16px;padding:14px 20px 12px 35px}.tableResults__head-col:nth-child(1){padding:14px 20px 12px 18px}.tableResults__head-col:nth-child(2){padding:14px 20px 12px 26px}.tableResults__body{font-size:16px;max-height:444px}.tableResults .place1 .tableResults__body-col:nth-child(1):after,.tableResults .place2 .tableResults__body-col:nth-child(1):after,.tableResults .place3 .tableResults__body-col:nth-child(1):after{width:26px;height:20px;margin:-3px 0 0 10px}}@media screen and (max-width:700px){.tableResults__drop{width:calc(100% - 30px)}.tableResults__drop:after,.tableResults__drop:before{width:2px;height:12px;top:23px}.tableResults__drop:before{right:18px}.tableResults__drop:after{right:26px}.tableResults__drop-title{font-size:18px;line-height:18px;padding:20px 20px 18px}.tableResults__drop-title:after{right:45px}.tableResults__drop-txt{padding:20px}.tableResults__head{margin-right:0;margin-bottom:5px;-webkit-box-shadow:0 0 10px #ff267e,inset 0 0 10px #ff267e;box-shadow:0 0 10px #ff267e,inset 0 0 10px #ff267e}.tableResults__head-col{font-size:12px;line-height:12px}.tableResults__head-col:nth-child(1){padding:11px 20px 9px 15px;width:20%}.tableResults__head-col:nth-child(2){padding:11px 20px 9px 10px;width:28%}.tableResults__head-col:nth-child(3){padding:11px 20px 9px 7px;width:22%}.tableResults__head-col:nth-child(4){padding:11px 20px 9px 10px;width:30%}.tableResults__body{font-size:11px;padding-right:0}.tableResults__body::-webkit-scrollbar{background:#33083c}.tableResults__body-col{font-family:SuisseIntl-Bold,sans-serif;margin-right:2px;padding:12px 5px 8px 10px}.tableResults__body-col:nth-child(1){width:20%;padding:12px 5px 8px 20px}.tableResults__body-col:nth-child(2){width:28%;padding:12px 5px 8px 10px}.tableResults__body-col:nth-child(3){width:22%}.tableResults__body-col:nth-child(4){width:30%}.tableResults__row{margin-bottom:2px}.tableResults .place1 .tableResults__body-col:nth-child(1):after,.tableResults .place2 .tableResults__body-col:nth-child(1):after,.tableResults .place3 .tableResults__body-col:nth-child(1):after{width:18px;height:14px;margin:-4px 0 0 6px}}@media screen and (max-width:374px){.tableResults__drop:after,.tableResults__drop:before{top:21px}.tableResults__drop-title{font-size:16px;line-height:16px;padding:18px 15px 16px}.tableResults__title{font-size:30px;line-height:30px}.tableResults__wrap{margin-top:20px}}@media screen and (max-width:1230px){.footer{padding:410px 0 70px;background:url(../img/bg-footer-tab.jpg) no-repeat center/100% 100%}.footer::after,.footer::before{content:none;background:0 0}.footer::before{content:"";left:50%;right:auto;bottom:auto;width:715px;height:372px;top:20px;z-index:1;-webkit-transform:translateX(-50%);-ms-transform:translateX(-50%);transform:translateX(-50%);background:url(../img/footer-center.png) no-repeat center/contain}.footer::after{content:"";left:50%;right:auto;bottom:auto;width:100%;height:100%;top:-170px;z-index:0;-webkit-transform:translateX(-50%);-ms-transform:translateX(-50%);transform:translateX(-50%);background:url(../img/touch-footer.svg) no-repeat center/contain}}@media screen and (max-width:1024px){.footer__title{font-size:50px;line-height:60px;margin:0 0 10px 0}}@media screen and (max-width:720px){.footer{padding:360px 0 70px}.footer::before{width:100%;top:-10px}}@media screen and (max-width:550px){.footer{padding:307px 0 30px;background:url(../img/bg-footer-mob.jpg) no-repeat center/100% 100%}.footer::before{width:100%;top:-30px}.footer::after{content:"";left:50%;right:auto;bottom:auto;width:100%;height:320px;top:10px;z-index:0;-webkit-transform:translateX(-50%);-ms-transform:translateX(-50%);transform:translateX(-50%);background:url(../img/touch-mob.png) no-repeat center/contain}.footer__title{max-width:345px;font-size:42px;line-height:50px;-webkit-box-ordinal-group:2;-ms-flex-order:1;order:1}.footer__link{-webkit-box-ordinal-group:3;-ms-flex-order:2;order:2;width:100%;padding:19px 15px 17px;text-align:center;margin:0 0 25px 0}.footer__text{-webkit-box-ordinal-group:4;-ms-flex-order:3;order:3;margin:0}}@media screen and (max-width:466px){.footer{padding:253px 0 30px}.footer::before{top:-60px}.footer::after{top:-20px}}@media screen and (max-width:406px){.footer{padding:215px 0 30px}.footer::before{top:-80px}.footer::after{top:-40px}}@media screen and (max-width:365px){.footer{padding:193px 0 30px}.footer::before{top:-90px}.footer::after{top:-50px}}

diff --git a/front/sass/media.sass b/front/sass/media.sass
@@ -121,6 +121,11 @@
     &__link
       width: calc(100% - 30px)
 
+@media screen and (max-width: 380px) and (max-height: 575px)
+  .welcome
+    &__image
+      max-width: 98%
+      margin: 0 auto
 
 //PRIZE
 
@@ -220,8 +225,6 @@
 
 
 //TABLE
-
-
 
 @media screen and (max-width: 940px)
   .tableResults
@@ -400,6 +403,7 @@
       transform: translateX(-50%)
       background: url("../img/touch-mob.png") no-repeat center/contain
     &__title
+      max-width: 345px
       font-size: 42px
       line-height: 50px
       order: 1
